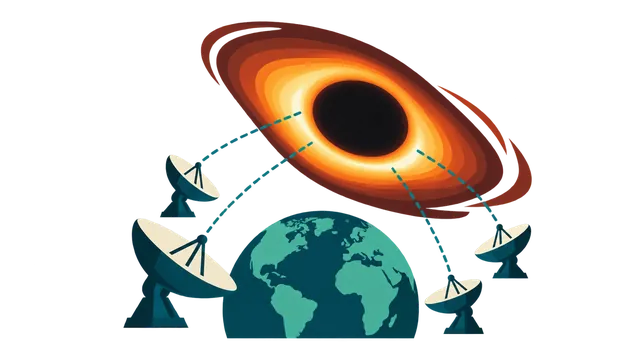
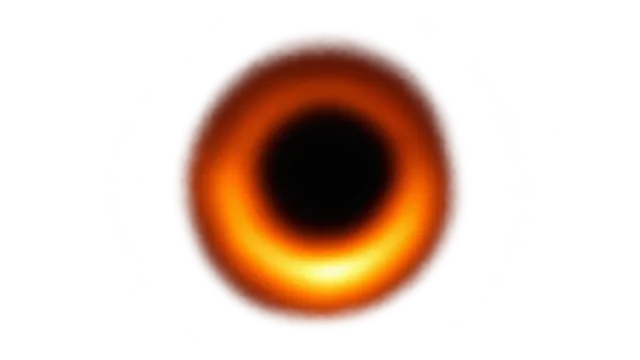
Přegenerovat ilustraci prvního snímku černé díry

diff --git a/docs/ilustrace-handoff.md b/docs/ilustrace-handoff.md
@@ -2,6 +2,10 @@
 
 Produkční karty používají statické AI ilustrace ve formátu WebP. Procedurální SVG renderer, jeho galerie, audit, baseline a testy byly odstraněny.
 
+
+Post `014`: regenerated with built-in image_gen as an isolated orange M87 emission ring and dark central shadow, brighter below. Transparent RGBA WebP, 640x360, 18,262 bytes; corner alpha 0. Reviewed at 160x90 and 320x180; both tests pass. Registered in cards and gallery. Exact prompt, SHA-256 and prior provenance retained in manifest; 054 unchanged. Generation size/quality/cost controls unavailable.
+
+
 ## Rozsah
 
 - Dostupné ilustrace: `001`–`312` a `413`–`571` (471 souborů, včetně sdílených kopií).
